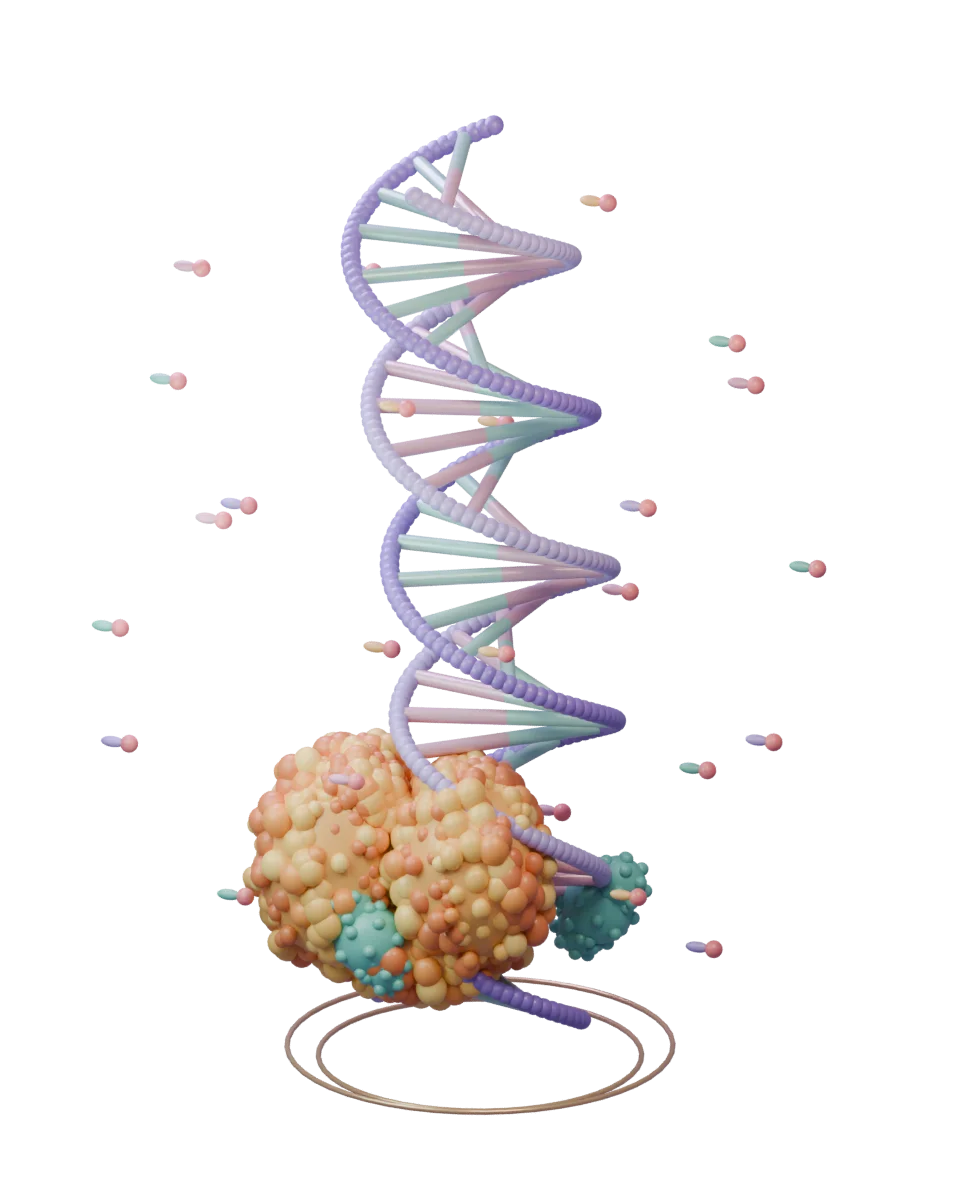
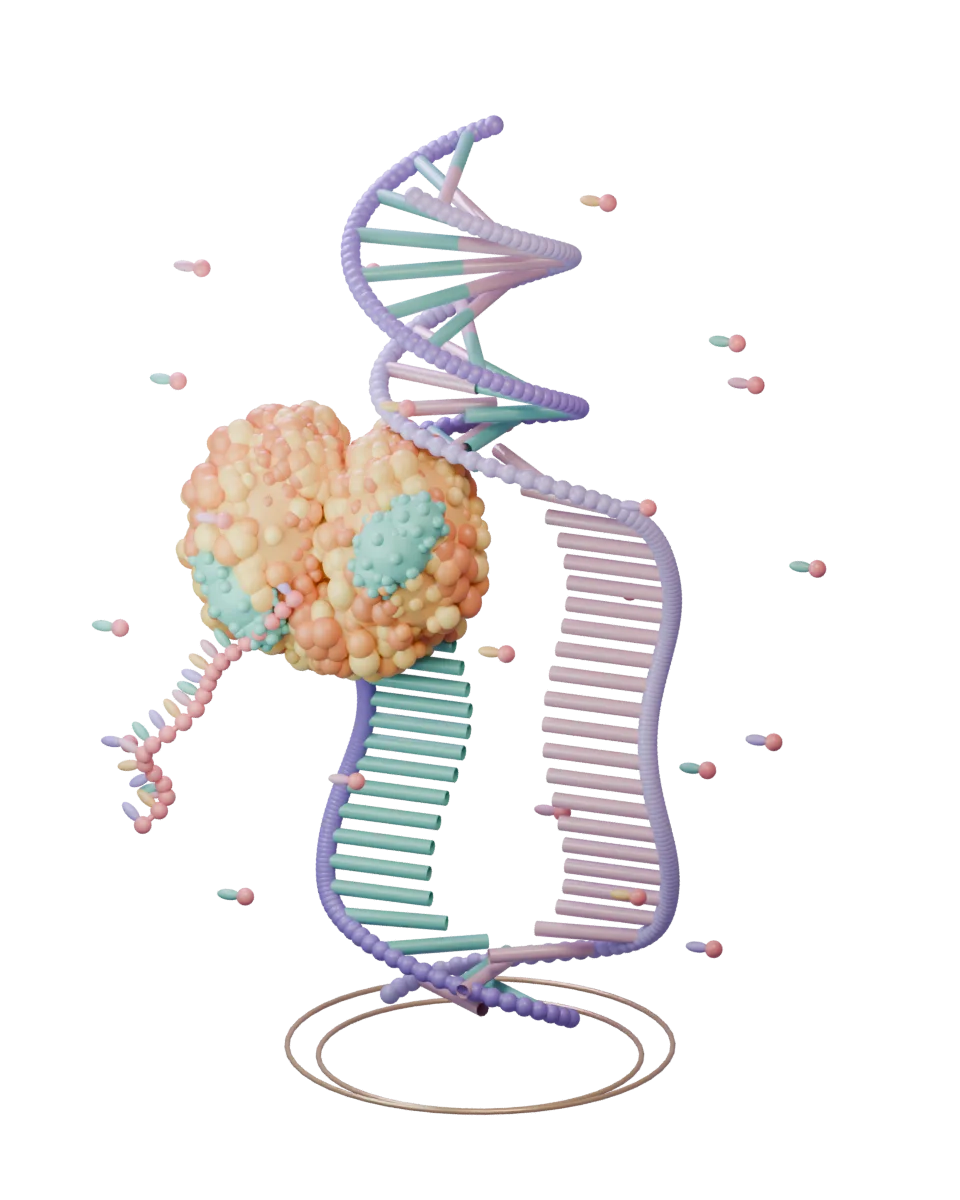
Preserve DNA bases and stage transcription assembly

Changed region(s): [[0.125, 0.1542, 0.7188, 0.8633], [0.4375, 0.1233, 0.5, 0.1542]]

diff --git a/src/components/showroom/DnaStage.tsx b/src/components/showroom/DnaStage.tsx
@@ -4,11 +4,12 @@ import { useEffect, useRef, useState } from "react";
 import type { MotionValue } from "motion/react";
 import { asset } from "@/lib/asset";
 import { showroomTheme } from "@/config/showroom/theme";
-import { dnaPoint, polymerasePosition, rnaPoint, strandOpening, smoothProgress as ease } from "@/lib/dna-geometry";
+import { dnaPoint, dnaBaseEndpoints, factorPosition, polymerasePosition, rnaPoint, transcriptionTimeline, smoothProgress as ease } from "@/lib/dna-geometry";
 
 export default function DnaStage({ progress }: { progress: MotionValue<number> }) {
   const host = useRef<HTMLDivElement>(null);
   const [ready, setReady] = useState(false);
+  const [fallback, setFallback] = useState(false);
 
   useEffect(() => {
     const element = host.current;
@@ -24,7 +25,10 @@ export default function DnaStage({ progress }: { progress: MotionValue<number> }
       let renderer: InstanceType<typeof THREE.WebGLRenderer>;
       try {
         renderer = new THREE.WebGLRenderer({ alpha: true, antialias: true, powerPreference: "low-power" });
-      } catch { return; }
+      } catch {
+        if (!stopped) setFallback(true);
+        return;
+      }
       const scene = new THREE.Scene();
       const camera = new THREE.PerspectiveCamera(34, 1, 0.1, 70);
       renderer.setPixelRatio(Math.min(window.devicePixelRatio, window.innerWidth < 768 ? 1.5 : 2));
@@ -173,7 +177,6 @@ export default function DnaStage({ progress }: { progress: MotionValue<number> }
       const vector = new THREE.Vector3();
       const a = new THREE.Vector3();
       const b = new THREE.Vector3();
-      const end = new THREE.Vector3();
       const tangent = new THREE.Vector3();
       const baseSide = new THREE.Vector3();
       const previous = new THREE.Vector3();
@@ -210,7 +213,8 @@ export default function DnaStage({ progress }: { progress: MotionValue<number> }
         const dt = Math.max(1, Math.min(50, time - lastTime || 16));
         lastTime = time;
         smoothed += (progress.get() - smoothed) * (1 - Math.exp(-dt / 85));
-        const p = reduced ? 0 : smoothed;
+        const p = reduced ? .72 : smoothed;
+        const timeline = transcriptionTimeline(p);
         if (!reduced) molecularTime += dt * 0.00012;
         if (!reduced) idle += dt * 0.000095 * (1 - ease(0.12, 0.8, p) * 0.85);
         const twist = idle * .25;
@@ -224,25 +228,19 @@ export default function DnaStage({ progress }: { progress: MotionValue<number> }
         }
         for (let i = 0; i < PAIRS; i++) {
           const s = (i + 0.5) / PAIRS;
-          const index = Math.round(s * COUNT);
-          a.copy(points[0][index]);
-          b.copy(points[1][index]);
-          const opening = strandOpening(s, p);
-          end.copy(a).lerp(b, 0.5 * (1 - opening * 0.8));
-          rod(pairMeshes[0], i, a, end, 0.072);
-          end.copy(b).lerp(a, 0.5 * (1 - opening * 0.8));
-          rod(pairMeshes[1], i, b, end, 0.072);
+          for (let strand = 0; strand < 2; strand++) {
+            const [anchor, tip] = dnaBaseEndpoints(s, strand, p, twist);
+            a.set(...anchor); b.set(...tip);
+            rod(pairMeshes[strand], i, a, b, .072);
+          }
         }
 
-        const transcription = ease(0.12, 0.92, p);
+        const transcription = timeline.elongation;
         polymerase.position.set(...polymerasePosition(p, twist));
         polymerase.scale.setScalar(1.07);
         polymerase.rotation.y = -.07;
         factors.children.forEach((factor, index) => {
-          const site = points[index][Math.round(COUNT * .11)];
-          factor.position.copy(site);
-          factor.position.x += (index ? 1 : -1) * .42;
-          factor.position.z += .25;
+          factor.position.set(...factorPosition(index, p, twist));
           factor.rotation.z = (index ? 1 : -1) * .5;
         });
         for (let i = 0; i < NTP_COUNT; i++) {
@@ -293,7 +291,8 @@ export default function DnaStage({ progress }: { progress: MotionValue<number> }
       function resize() {
         const { width, height } = element!.getBoundingClientRect();
         camera.aspect = width / Math.max(1, height);
-        cameraDistance = camera.aspect < 0.75 ? 21 : 17;
+        // Frame the separated strands, full-length bases, and trailing RNA on narrow screens.
+        cameraDistance = Math.max(17, 5.8 / (Math.tan(THREE.MathUtils.degToRad(17)) * camera.aspect));
         camera.position.set(0, 0, cameraDistance);
         camera.updateProjectionMatrix();
         renderer.setSize(width, height);
@@ -329,11 +328,11 @@ export default function DnaStage({ progress }: { progress: MotionValue<number> }
         renderer.domElement.remove();
       };
     }
-    start().catch(() => { /* The Blender poster remains visible if WebGL is unavailable. */ });
+    start().catch(() => { if (!stopped) setFallback(true); });
     return () => { stopped = true; cleanup(); };
   }, [progress]);
 
-  return <div className={`sr-dna-stage${ready ? " is-ready" : ""}`} aria-hidden="true">
+  return <div className={`sr-dna-stage${ready ? " is-ready" : ""}${fallback ? " is-fallback" : ""}`} aria-hidden="true">
     <div className="sr-dna-halo" />
     <img className="sr-dna-poster" src={asset("/visuals/showroom/dna.webp")} alt="" width={960} height={1200} fetchPriority="high" />
     <div ref={host} className="sr-dna-canvas" />

diff --git a/src/lib/dna-geometry.ts b/src/lib/dna-geometry.ts
@@ -3,14 +3,20 @@ export const smoothProgress = (start: number, end: number, value: number) => {
   return t * t * (3 - 2 * t);
 };
 
-export const transcriptionSite = (progress: number) => .17 + smoothProgress(.10, .95, progress) * .62;
+export const transcriptionTimeline = (progress: number) => ({
+  factorBinding: smoothProgress(.02, .16, progress),
+  polymeraseBinding: smoothProgress(.20, .34, progress),
+  elongation: smoothProgress(.38, .98, progress)
+});
+
+export const transcriptionSite = (progress: number) => .17 + transcriptionTimeline(progress).elongation * .62;
 
 // Unzip up to the moving polymerase and keep the traversed section open.
 export function strandOpening(s: number, progress: number) {
   const start = transcriptionSite(0);
   const site = transcriptionSite(progress);
   const distance = (s < start ? s - start : s > site ? s - site : 0) / .13;
-  return Math.exp(-Math.pow(distance, 4)) * (.24 + smoothProgress(.04, .24, progress) * .76);
+  return Math.exp(-Math.pow(distance, 4)) * smoothProgress(.38, .44, progress);
 }
 
 export function dnaPoint(s: number, strand: number, progress: number, twist = 0): [number, number, number] {
@@ -18,21 +24,58 @@ export function dnaPoint(s: number, strand: number, progress: number, twist = 0)
   const angle = s * Math.PI * 5.5 + twist + strand * Math.PI;
   const radius = 1.06 * (1 - opening * .86);
   return [
-    Math.cos(angle) * radius + (strand ? 1 : -1) * opening * .72 + Math.sin(s * Math.PI * 1.4) * .28,
+    Math.cos(angle) * radius + (strand ? 1 : -1) * opening * 1.6 + Math.sin(s * Math.PI * 1.4) * .28,
     (s - .5) * 8.6,
     Math.sin(angle) * radius
   ];
 }
 
-// Keep the template strand in the protein's central cleft at every scroll position.
-export function polymerasePosition(progress: number, twist = 0): [number, number, number] {
+type Point = [number, number, number];
+
+// Each base stays attached to its backbone at full length; only its orientation changes.
+export function dnaBaseEndpoints(s: number, strand: number, progress: number, twist = 0): [Point, Point] {
+  const anchor = dnaPoint(s, strand, progress, twist);
+  const closedAngle = s * Math.PI * 5.5 + twist + strand * Math.PI + Math.PI;
+  const openAngle = strand ? Math.PI : 0;
+  const rotation = Math.atan2(Math.sin(openAngle - closedAngle), Math.cos(openAngle - closedAngle));
+  const angle = closedAngle + rotation * strandOpening(s, progress);
+  const length = 1.06;
+  return [anchor, [anchor[0] + Math.cos(angle) * length, anchor[1], anchor[2] + Math.sin(angle) * length]];
+}
+
+function boundPolymerasePosition(progress: number, twist: number): Point {
   const point = dnaPoint(transcriptionSite(progress), 0, progress, twist);
   return [point[0] + .25, point[1], point[2] + .45];
 }
 
+function blend(from: Point, to: Point, amount: number): Point {
+  if (amount === 0) return from;
+  if (amount === 1) return to;
+  return from.map((value, axis) => value + (to[axis] - value) * amount) as Point;
+}
+
+// Recruit the enzyme after the factors bind, then carry it along the template strand.
+export function polymerasePosition(progress: number, twist = 0): Point {
+  const initial = boundPolymerasePosition(0, twist);
+  const free: Point = [initial[0] + 3, initial[1] - .55, initial[2] + .85];
+  return blend(free, boundPolymerasePosition(progress, twist), transcriptionTimeline(progress).polymeraseBinding);
+}
+
+export function factorPosition(index: number, progress: number, twist = 0): Point {
+  const contact = dnaPoint(transcriptionSite(0) + (index ? .03 : -.03), 0, progress, twist);
+  contact[0] += index ? .2 : -.18;
+  contact[2] += .2;
+  const free: Point = [contact[0] + (index ? 1.7 : -1.7), contact[1] + 1.2, contact[2] + .6];
+  const docked = blend(free, contact, transcriptionTimeline(progress).factorBinding);
+  const enzyme = boundPolymerasePosition(progress, twist);
+  const offset: Point = index ? [.85, .35, .62] : [-.75, -.38, .52];
+  const carried = enzyme.map((value, axis) => value + offset[axis]) as Point;
+  return blend(docked, carried, transcriptionTimeline(progress).polymeraseBinding);
+}
+
 export function rnaPoint(s: number, progress: number, twist = 0, time = 0): [number, number, number] {
   const root = polymerasePosition(progress, twist);
-  const growth = smoothProgress(.12, .92, progress);
+  const growth = transcriptionTimeline(progress).elongation;
   const length = (1 + (transcriptionSite(progress) - .17) * 8.6) * growth;
   return [
     root[0] - .18 - Math.sin(s * Math.PI * .5) * 2.6 * growth + Math.sin(s * Math.PI * 5 + time) * .18 * s,

diff --git a/src/app/showroom/showroom.css b/src/app/showroom/showroom.css
@@ -40,10 +40,11 @@
 .sr-dna-halo { position: absolute; left: 16%; top: 23%; width: 63%; aspect-ratio: 1; border-radius: 50%; background: radial-gradient(ellipse, #a27ee91a, #edc38a08 40%, transparent 70%); }
 .sr-dna-canvas { position: absolute; inset: 0; }
 .sr-dna-canvas canvas { display: block; width: 100%; height: 100%; opacity: 0; transition: opacity 0.8s; }
-.sr-dna-poster { width: 100%; height: 100%; object-fit: contain; opacity: 1; transition: opacity 0.5s; }
+.sr-dna-poster { width: 100%; height: 100%; object-fit: contain; opacity: 0; transition: opacity 0.5s; }
+.sr-dna-stage.is-fallback:not(.is-ready) .sr-dna-poster { opacity: 1; }
 .sr-dna-stage.is-ready .sr-dna-canvas canvas { opacity: 1; }
 .sr-dna-stage.is-ready .sr-dna-poster { opacity: 0; }
-.sr-specimen-label { position: absolute; z-index: 2; right: max(38px, calc((100vw - 1280px) / 2)); bottom: 19%; display: flex; flex-direction: column; align-items: flex-end; gap: 8px; font-family: ui-monospace, monospace; font-size: 10px; letter-spacing: 0.12em; color: var(--sr-dim); }
+.sr-specimen-label { position: absolute; z-index: 2; right: max(38px, calc((100vw - 1280px) / 2)); top: 14%; display: flex; flex-direction: column; align-items: flex-end; gap: 8px; font-family: ui-monospace, monospace; font-size: 10px; letter-spacing: 0.12em; color: var(--sr-dim); }
 .sr-specimen-label::before { content: ""; width: 52px; height: 1px; background: #b39aee66; margin-bottom: 8px; }
 .sr-journey-foot { position: absolute; z-index: 2; left: max(48px, calc((100vw - 1244px) / 2)); right: max(48px, calc((100vw - 1244px) / 2)); bottom: 35px; display: flex; justify-content: space-between; align-items: center; gap: 24px; }
 .sr-scroll-cue { color: var(--sr-dim); font-size: 13px; display: flex; align-items: center; gap: 24px; }
@@ -133,7 +134,7 @@
   .sr-explore { margin-top: 10px; padding: 10px 0; gap: 28px; font-size: 14px; }
   .sr-molecule-key { margin-top: 16px; gap: 8px 14px; font-size: 11px; }
   .sr-dna-stage { position: relative; order: 2; flex: 1 1 auto; align-self: flex-end; min-height: 0; margin-top: 8px; top: auto; right: -3%; height: auto; width: 96%; }
-  .sr-specimen-label { right: 18px; bottom: 14%; font-size: 8px; gap: 4px; }
+  .sr-specimen-label { display: none; }
   .sr-specimen-label::before { width: 22px; margin-bottom: 4px; }
   .sr-journey-foot { bottom: 22px; left: 24px; right: 24px; gap: 10px; }
   .sr-scroll-cue { max-width: 160px; font-size: 12px; line-height: 1.6; gap: 12px; }

diff --git a/scripts/blender/showroom.py b/scripts/blender/showroom.py
@@ -129,17 +129,26 @@ if args.asset == 'dna':
     ntp = material('RNA nucleotides', '#f0787d', .08, .48)
     factor = material('Transcription factors', '#5ebbaa', .08, .48)
     base_materials = [material(f'Nucleotide base {i}', color, .04, .46) for i, color in enumerate(['#ad8fdd', '#65bea8', '#dd98b5', '#edba68'])]
+    # A representative elongation frame for reduced motion and the WebGL fallback.
+    progress = .72
+    growth_t = (progress - .38) / (.98 - .38)
+    growth = growth_t * growth_t * (3 - 2 * growth_t)
+    site = .17 + growth * .62
 
     # THREE uses Y up. Preserve the live scene's coordinates in Blender's Z-up frame.
     def xyz(point):
         x, y, z = point
         return (x, -z, y)
 
+    def strand_opening(s):
+        distance = (s - .17 if s < .17 else s - site if s > site else 0) / .13
+        return math.exp(-distance ** 4)
+
     def dna_point(s, strand):
-        opening = math.exp(-((s - .17) / .13) ** 4) * .24
+        opening = strand_opening(s)
         angle = s * math.pi * 5.5 + strand * math.pi
         radius = 1.06 * (1 - opening * .86)
-        return (math.cos(angle) * radius + (1 if strand else -1) * opening * .72 + math.sin(s * math.pi * 1.4) * .28,
+        return (math.cos(angle) * radius + (1 if strand else -1) * opening * 1.6 + math.sin(s * math.pi * 1.4) * .28,
                 (s - .5) * 8.6, math.sin(angle) * radius)
 
     coords = []
@@ -152,15 +161,19 @@ if args.asset == 'dna':
         coords.append(points)
         tube('DNA backbone', points, .068, mat)
     for i in range(36):
-        index = round((i + .5) / 36 * 190)
-        a, b = coords[0][index], coords[1][index]
-        middle = tuple((x + y) / 2 for x, y in zip(a, b))
-        tube('Base pair A', [a, middle], .072, mint)
-        tube('Base pair B', [middle, b], .072, rose)
+        s = (i + .5) / 36
+        for strand, mat in enumerate([factor, rose]):
+            anchor = dna_point(s, strand)
+            closed_angle = s * math.pi * 5.5 + strand * math.pi + math.pi
+            target = math.pi if strand else 0
+            rotation = math.atan2(math.sin(target - closed_angle), math.cos(target - closed_angle))
+            angle = closed_angle + rotation * strand_opening(s)
+            tip = (anchor[0] + math.cos(angle) * 1.06, anchor[1], anchor[2] + math.sin(angle) * 1.06)
+            tube('DNA base', [xyz(anchor), xyz(tip)], .072, mat)
     for radius, z in [(1.85, -4.7), (1.55, -4.8)]:
         bpy.ops.mesh.primitive_torus_add(major_radius=radius, minor_radius=.025, location=(0, 0, z))
         apply(bpy.context.object, gold)
-    template = dna_point(.17, 0)
+    template = dna_point(site, 0)
     center = (template[0] + .25, template[1], template[2] + .45)
     lobes = [
         [-.68, .08, .02, .68, .93, .62], [.68, .16, .02, .66, .84, .62],
@@ -181,11 +194,9 @@ if args.asset == 'dna':
             radius = (.068 + (math.sin(i * 7.23) + 1) / 2 * .076) * 1.07
             color = math.floor((math.sin(i * 9.23 + lobe) + 1) * 1.99)
             ball(pos, radius, protein_materials[color], (1, .9, 1.1))
-    for strand in range(2):
+    for strand, offset in enumerate([[-.75, -.38, .52], [.85, .35, .62]]):
         side = 1 if strand else -1
-        x, y, z = dna_point(.11, strand)
-        x += side * .42
-        z += .25
+        x, y, z = tuple(center[j] + offset[j] for j in range(3))
         for ox, oz, radius in [(0, 0, .36), (side * .22, .28, .27), (-side * .17, -.25, .25)]:
             ball(xyz((x + ox, y + oz, z)), radius, factor, (1, .8, 1))
             for i in range(22):
@@ -193,6 +204,22 @@ if args.asset == 'dna':
                 height = 1 - 2 * (i + .5) / 22
                 ring = math.sqrt(1 - height ** 2)
                 ball(xyz((x + ox + ring * math.cos(angle) * radius, y + oz + height * radius, z + ring * math.sin(angle) * radius * .8)), .065, factor)
+    length = (1 + (site - .17) * 8.6) * growth
+
+    def rna_point(s):
+        return (center[0] - .18 - math.sin(s * math.pi * .5) * 2.6 * growth + math.sin(s * math.pi * 5) * .18 * s,
+                center[1] - .32 - s * length, center[2] + .63 + math.sin(s * math.pi * 4) * .20 * s)
+
+    units = max(2, math.ceil(34 * growth))
+    rna_points = [rna_point(i / (units - 1)) for i in range(units)]
+    tube('Single RNA backbone', [xyz(point) for point in rna_points], .028, ntp)
+    for i, point in enumerate(rna_points):
+        ball(xyz(point), .085, ntp)
+        next_point = rna_point(min(1, i / (units - 1) + .01))
+        tangent = Vector(next_point) - Vector(point) if i < units - 1 else Vector(point) - Vector(rna_points[i - 1])
+        base_side = Vector((tangent.y, -tangent.x, 0)).normalized()
+        base = ball(xyz(Vector(point) + base_side * .17), .065, base_materials[i % 4], (1.8, .8, .8))
+        base.rotation_euler.y = -math.atan2(base_side.y, base_side.x)
     for i in range(24):
         angle = i * 2.39996
         radius = 2.4 + (i % 5) * .34

diff --git a/docs/showroom.md b/docs/showroom.md
@@ -6,7 +6,9 @@
 
 ## 조형물
 
-`DnaStage.tsx`는 Three.js의 인스턴스 메시로 DNA와 분자 표면을 그립니다. 전사인자는 민트색, RNA 합성효소는 금색·주황색의 여러 덩어리와 불규칙한 표면 입자로 표현합니다. 스크롤이 진행되면 RNA 합성효소가 실제 DNA 주형 가닥의 좌표를 따라 이동하고, 지나간 DNA는 열린 상태로 남습니다. RNA는 붉은 뼈대에 염기가 붙은 한 가닥이며 효소 뒤로 길게 남습니다. NTPs는 RNA에 붙은 단위체와 같은 당·염기 모양으로 만들고 인산기는 생략합니다. 가닥·효소·RNA의 경로는 `src/lib/dna-geometry.ts`에 있습니다. 이는 DNA와 전사 과정을 모티브로 한 시각 연출이며 실제 분자 구조·크기를 재현한 모델이 아닙니다. 화면 밖과 백그라운드 탭에서는 그리기를 멈추고, 동작 줄이기를 선택하면 고정된 조형물과 짧은 첫 화면을 보여줍니다. WebGL을 지원하지 않으면 Blender로 만든 이미지를 표시합니다.
+`DnaStage.tsx`는 Three.js의 인스턴스 메시로 DNA와 분자 표면을 그립니다. 전사인자는 민트색, RNA 합성효소는 금색·주황색의 여러 덩어리와 불규칙한 표면 입자로 표현합니다. 전사인자가 먼저 DNA에 결합하고, 그 근처에 RNA 합성효소가 결합한 뒤 이동과 RNA 합성이 시작됩니다. 전사인자는 결합한 합성효소와 함께 이동합니다. DNA는 효소가 지나간 자리에 열린 상태로 남으며, 각 가닥의 염기는 길이를 유지한 채 방향만 바뀝니다. RNA는 붉은 뼈대에 염기가 붙은 한 가닥이며 효소 뒤로 길게 남습니다. NTPs는 RNA에 붙은 단위체와 같은 당·염기 모양으로 만들고 인산기는 생략합니다. 결합 순서와 가닥·효소·RNA의 경로는 `src/lib/dna-geometry.ts`에 있습니다. 이는 DNA와 전사 과정을 모티브로 한 시각 연출이며 실제 분자 구조·크기를 재현한 모델이 아닙니다. 화면 밖과 백그라운드 탭에서는 그리기를 멈추고, 동작 줄이기를 선택하면 전사 중인 고정된 조형물과 짧은 첫 화면을 보여줍니다. WebGL을 지원하지 않으면 Blender로 만든 이미지를 표시합니다.
+
+스크롤 진행률 2~16%는 전사인자 결합, 20~34%는 RNA 합성효소 결합, 38~98%는 DNA 풀림과 RNA 합성에 배정합니다. 이동 전에는 DNA를 열거나 RNA를 만들지 않습니다. 역방향 스크롤은 같은 순서를 되감습니다.
 
 전사인자·RNA 합성효소·NTPs의 관계는 [NCBI의 From DNA to RNA](https://www.ncbi.nlm.nih.gov/books/NBK26887/)를 참고했습니다.
 
